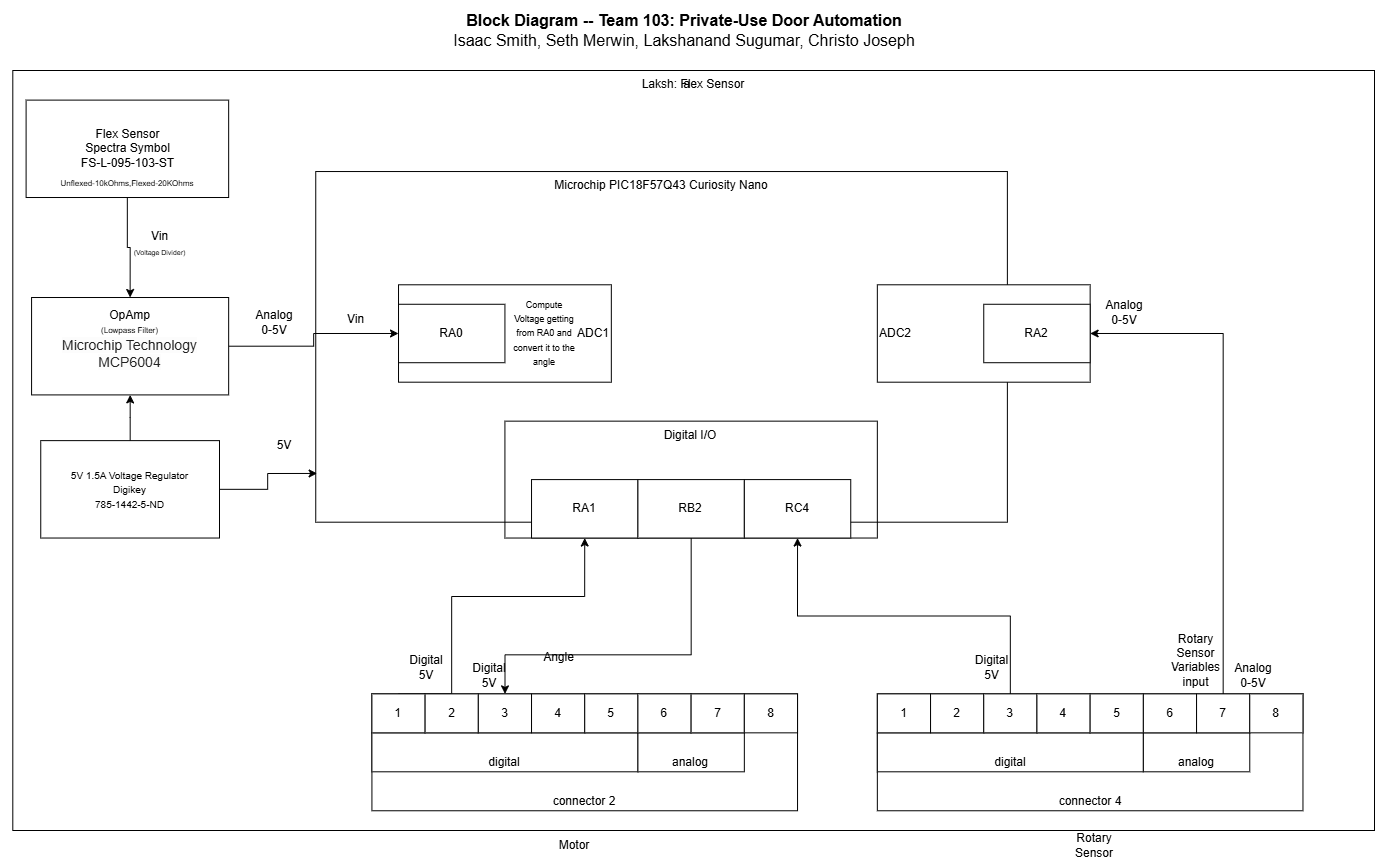
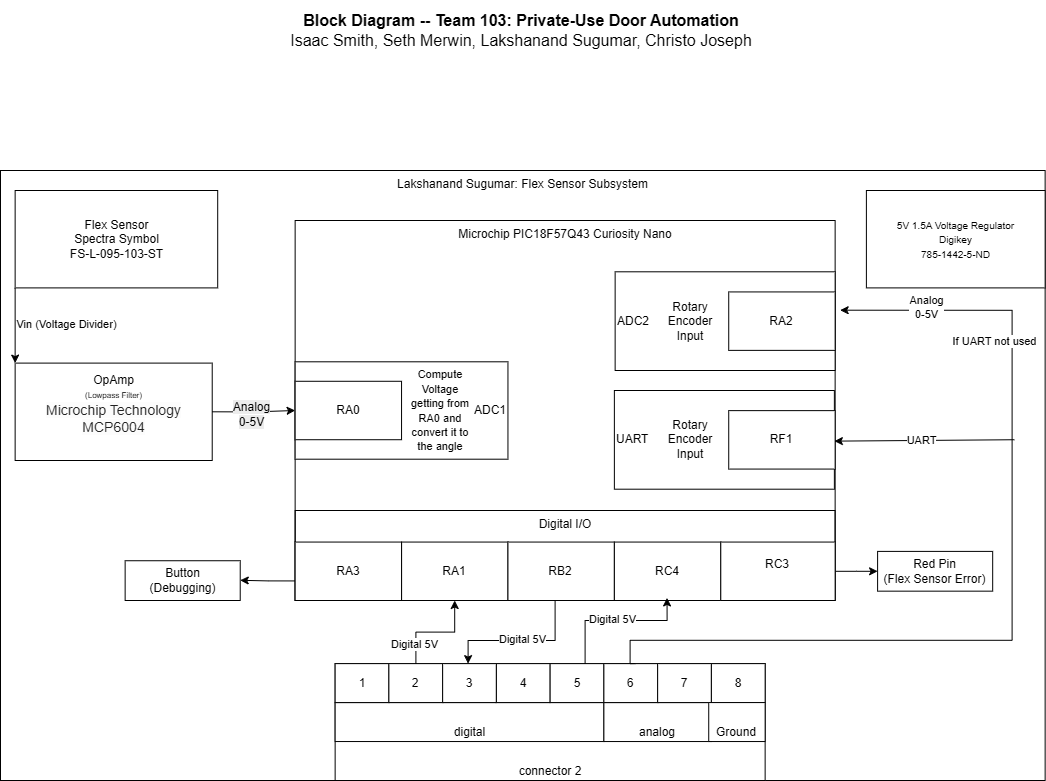
deploy: 8c9a64f7e7f372e0074f0c664d9c45accb230d61

diff --git a/01-Block-Diagram/Block-Diagram/index.html b/01-Block-Diagram/Block-Diagram/index.html
@@ -846,7 +846,7 @@
 </ul>
 <p>This subsystem interfaces directly with both the <strong>Motor Subsystem</strong> and the <strong>Rotary Sensor Subsystem</strong>. The rotary sensor inputs are used for cross-validation: the system compares the physical bend of the door (flex sensor) with the rotation angle (rotary sensor). Any mismatch indicates a mechanical failure (e.g., motor spinning without moving the door), enabling fault detection and automatic shutdown.</p>
 <p>This interaction improves safety, prevents motor overrun, and reduces power waste. For a full system-level view of all interconnected subsystems, refer to the <a href="https://egr304-2025-f-103.github.io">team report.</a></p>
-<p><a class="glightbox" data-type="image" data-width="auto" data-height="auto" href="../individual_block_diagram.drawio%20%283%29.png" data-desc-position="bottom"><img alt="Flex Sensor Subsystem Block diagram" src="../individual_block_diagram.drawio%20%283%29.png"></a></p>
+<p><a class="glightbox" data-type="image" data-width="auto" data-height="auto" href="../individual_block_diagram.drawio%20%283%29.png" data-desc-position="bottom"><img alt="Flex Sensor Subsystem Block diagram-Updated" src="../individual_block_diagram.drawio%20%283%29.png"></a></p>
 <h2 id="subsystem-role">Subsystem Role</h2>
 <p>The Flex Sensor Subsystem acts as a <strong>feedback + validation node</strong> in the overall system architecture. Its primary function is to:</p>
 <ul>

diff --git a/02-Component-Selection/Component-Selection/index.html b/02-Component-Selection/Component-Selection/index.html
@@ -1189,8 +1189,8 @@ on the PCB for field connections; <strong>0.1″ headers</strong> for bench adap
 </tbody>
 </table>
 <p><strong>Choice:</strong> <strong>PIC18F57Q43 Curiosity Nano</strong>
-<a href="../../image/pic18f57q43-nano.webp">Curiosity Nano</a>
-<strong>Rationale:</strong> Lowest risk and fastest path for this course: on-board debugger, USB power, and immediate access to RA0/RA2 (ADC) + RA1/RB2/RC4 (digital outs). Provided in class</p>
+<a href="../../image/pic18f57q43-nano.webp">Curiosity Nano</a></p>
+<p><strong>Rationale:</strong> Lowest risk and fastest path for this course: on-board debugger, USB power, and immediate access to RA0/RA2 (ADC) + RA1/RB2/RC4 (digital outs). Provided in class</p>
 <hr>
 <h2 id="pin-table">Pin Table</h2>
 <table>
@@ -1210,7 +1210,7 @@ on the PCB for field connections; <strong>0.1″ headers</strong> for bench adap
 <tr>
 <td>Rotary sensor ADC <em>(external)</em></td>
 <td><strong>RA2 / AN2</strong></td>
-<td>From Rotary subsystem (interface only)</td>
+<td>From Rotary subsystem(if DAC)</td>
 </tr>
 <tr>
 <td>Motor control 1 (digital out)</td>
@@ -1226,6 +1226,11 @@ on the PCB for field connections; <strong>0.1″ headers</strong> for bench adap
 <td>Motor control 3 (digital out)</td>
 <td><strong>RC4</strong></td>
 <td>〃</td>
+</tr>
+<tr>
+<td>Rotary Sensor (digital out)</td>
+<td><strong>RF1</strong></td>
+<td>From Rotary Subsystem(if UART used)</td>
 </tr>
 </tbody>
 </table>
